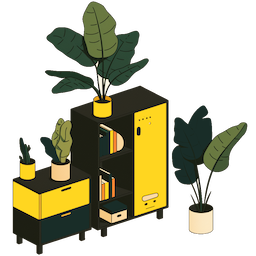
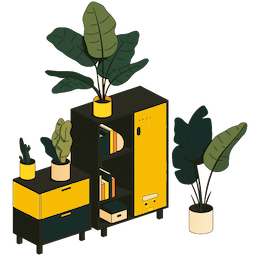
Fastfix

Changed region(s): [[0.5, 0.4062, 0.6562, 0.8438], [0.0312, 0.6875, 0.3438, 0.875]]

diff --git a/docs/docusaurus/src/pages/index.js b/docs/docusaurus/src/pages/index.js
@@ -23,7 +23,7 @@ function HomepageHeader() {
       particle.className = styles.particle;
       
       // Позиционирование внутри header
-      particle.style.left = `${50 + Math.random() * 50}%`;
+      particle.style.left = `${Math.random() * 100}%`;
       particle.style.top = `${Math.random() * 100}%`;
       particle.style.width = `${Math.random() * 3 + 1}px`;
       particle.style.height = particle.style.width;